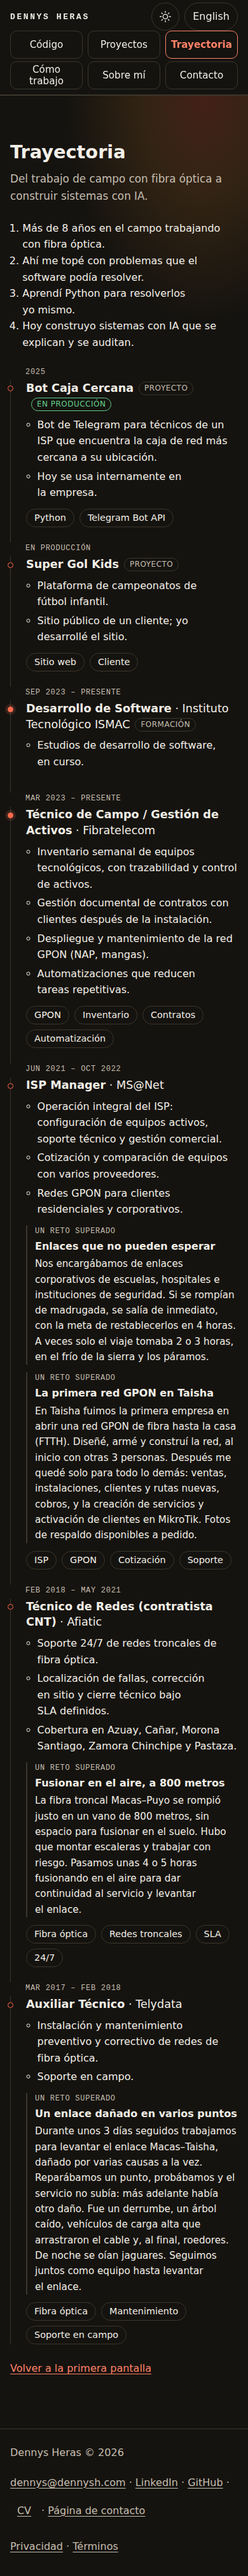
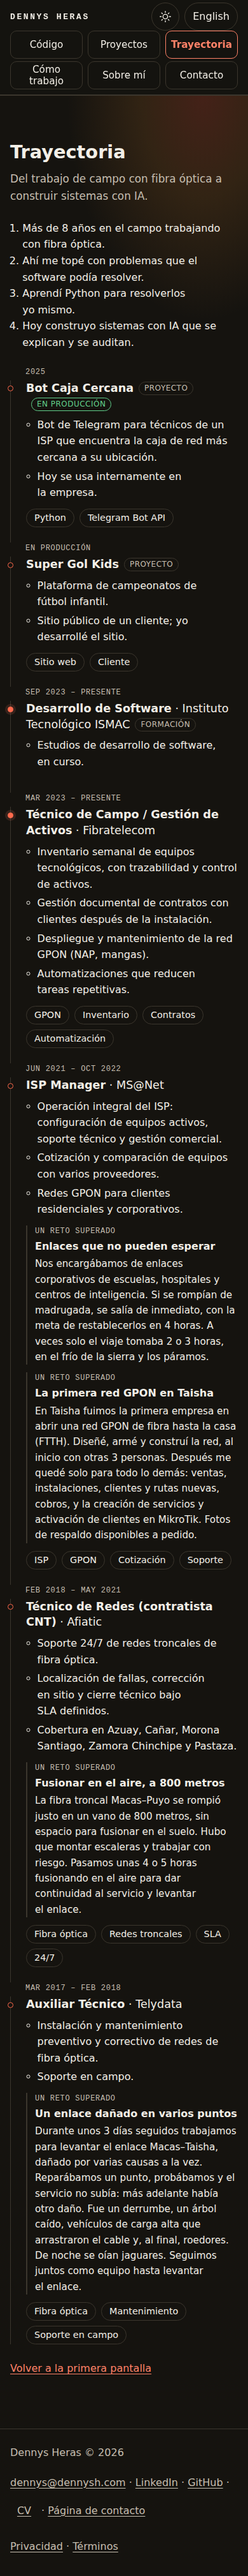
✏ texto: reto 3a de MS@Net con «escuelas, hospitales y centros de inteligencia» (en: «intelligence centers»), sin «policía»; prueba, capturas y resumen

Changed region(s): [[0.1231, 0.4995, 0.9538, 0.5307]]

diff --git a/src/content/site.js b/src/content/site.js
@@ -142,7 +142,7 @@ export const site = {
         { id: 'super-gol-kids', kind: 'project', when: 'In production', title: 'Super Gol Kids', bullets: ['Platform for children\'s football championships.', 'Public website for a client; I developed the site.'], tags: ['Website', 'Client'], photos: photosFor('en', 'super-gol-kids') },
         { id: 'ismac', kind: 'study', when: 'Sep 2023 – Present', from: '2023-09', current: true, title: 'Software Development', org: 'ISMAC Institute of Technology', bullets: ['Software development studies, in progress.'], tags: [], photos: photosFor('en', 'ismac') },
         { id: 'fibratelecom', kind: 'job', when: 'Mar 2023 – Present', from: '2023-03', current: true, title: 'Field Technician / Asset Management', org: 'Fibratelecom', bullets: ['Weekly inventory of technology equipment, with traceability and asset control.', 'Document management of customer contracts after installation.', 'Deployment and maintenance of GPON network (NAP, splice closures).', 'Automations that cut repetitive tasks.'], tags: ['GPON', 'Inventory', 'Contracts', 'Automation'], photos: photosFor('en', 'fibratelecom') },
-        { id: 'msnet', kind: 'job', when: 'Jun 2021 – Oct 2022', from: '2021-06', to: '2022-10', title: 'ISP Manager', org: 'MS@Net', bullets: ['Full ISP operation: active equipment configuration, technical support and commercial management.', 'Quoted and compared equipment from several suppliers.', 'GPON networks for residential and corporate customers.'], tags: ['ISP', 'GPON', 'Quotes', 'Support'], challenges: [{ title: 'Links that cannot wait', text: 'We looked after corporate links for schools, hospitals and security institutions. If one broke in the early hours, we went out at once, aiming to restore it within 4 hours. Sometimes the trip alone took 2 or 3 hours, in the cold of the highlands and the páramos.' }, { title: 'The first GPON network in Taisha', text: 'In Taisha we were the first company to open a GPON fiber-to-the-home (FTTH) network. I designed, assembled and built the network, at first with 3 other people. After that I stayed on alone for everything else: sales, installations, new customers and routes, billing, and creating services and activating customers on MikroTik. Backup photos available on request.' }], photos: photosFor('en', 'msnet') },
+        { id: 'msnet', kind: 'job', when: 'Jun 2021 – Oct 2022', from: '2021-06', to: '2022-10', title: 'ISP Manager', org: 'MS@Net', bullets: ['Full ISP operation: active equipment configuration, technical support and commercial management.', 'Quoted and compared equipment from several suppliers.', 'GPON networks for residential and corporate customers.'], tags: ['ISP', 'GPON', 'Quotes', 'Support'], challenges: [{ title: 'Links that cannot wait', text: 'We looked after corporate links for schools, hospitals and intelligence centers. If one broke in the early hours, we went out at once, aiming to restore it within 4 hours. Sometimes the trip alone took 2 or 3 hours, in the cold of the highlands and the páramos.' }, { title: 'The first GPON network in Taisha', text: 'In Taisha we were the first company to open a GPON fiber-to-the-home (FTTH) network. I designed, assembled and built the network, at first with 3 other people. After that I stayed on alone for everything else: sales, installations, new customers and routes, billing, and creating services and activating customers on MikroTik. Backup photos available on request.' }], photos: photosFor('en', 'msnet') },
         { id: 'afiatic', kind: 'job', when: 'Feb 2018 – May 2021', from: '2018-02', to: '2021-05', title: 'Network Technician (CNT contractor)', org: 'Afiatic', bullets: ['24/7 support for fiber-optic backbone networks.', 'Fault location, on-site repair and technical close-out under defined SLAs.', 'Coverage in Azuay, Cañar, Morona Santiago, Zamora Chinchipe and Pastaza.'], tags: ['Fiber optics', 'Backbone', 'SLA', '24/7'], challenges: [{ title: 'Splicing in the air, at 800 meters', text: 'The Macas–Puyo backbone fiber broke right in an 800-meter span, with no room to splice on the ground. We had to set up ladders and work at risk. We spent about 4 to 5 hours splicing in the air to keep the service running and bring the link back up.' }], photos: photosFor('en', 'afiatic') },
         { id: 'telydata', kind: 'job', when: 'Mar 2017 – Feb 2018', from: '2017-03', to: '2018-02', title: 'Technical Assistant', org: 'Telydata', bullets: ['Installation and preventive and corrective maintenance of fiber-optic networks.', 'Field support.'], tags: ['Fiber optics', 'Maintenance', 'Field support'], challenges: [{ title: 'A link damaged in several places', text: 'For about 3 days in a row we worked to restore the Macas–Taisha link, damaged by several causes at once. We would repair one point, test, and the service still would not come up: there was more damage further along. It was a landslide, a fallen tree, tall-load vehicles that dragged the cable and, finally, rodents. At night we could hear jaguars. We stayed together as a team until the link was back up.' }], photos: photosFor('en', 'telydata') },
       ],
@@ -445,7 +445,7 @@ export const site = {
         { id: 'super-gol-kids', kind: 'project', when: 'En producción', title: 'Super Gol Kids', bullets: ['Plataforma de campeonatos de fútbol infantil.', 'Sitio público de un cliente; yo desarrollé el sitio.'], tags: ['Sitio web', 'Cliente'], photos: photosFor('es', 'super-gol-kids') },
         { id: 'ismac', kind: 'study', when: 'Sep 2023 – Presente', from: '2023-09', current: true, title: 'Desarrollo de Software', org: 'Instituto Tecnológico ISMAC', bullets: ['Estudios de desarrollo de software, en curso.'], tags: [], photos: photosFor('es', 'ismac') },
         { id: 'fibratelecom', kind: 'job', when: 'Mar 2023 – Presente', from: '2023-03', current: true, title: 'Técnico de Campo / Gestión de Activos', org: 'Fibratelecom', bullets: ['Inventario semanal de equipos tecnológicos, con trazabilidad y control de activos.', 'Gestión documental de contratos con clientes después de la instalación.', 'Despliegue y mantenimiento de la red GPON (NAP, mangas).', 'Automatizaciones que reducen tareas repetitivas.'], tags: ['GPON', 'Inventario', 'Contratos', 'Automatización'], photos: photosFor('es', 'fibratelecom') },
-        { id: 'msnet', kind: 'job', when: 'Jun 2021 – Oct 2022', from: '2021-06', to: '2022-10', title: 'ISP Manager', org: 'MS@Net', bullets: ['Operación integral del ISP: configuración de equipos activos, soporte técnico y gestión comercial.', 'Cotización y comparación de equipos con varios proveedores.', 'Redes GPON para clientes residenciales y corporativos.'], tags: ['ISP', 'GPON', 'Cotización', 'Soporte'], challenges: [{ title: 'Enlaces que no pueden esperar', text: 'Nos encargábamos de enlaces corporativos de escuelas, hospitales e instituciones de seguridad. Si se rompían de madrugada, se salía de inmediato, con la meta de restablecerlos en 4 horas. A veces solo el viaje tomaba 2 o 3 horas, en el frío de la sierra y los páramos.' }, { title: 'La primera red GPON en Taisha', text: 'En Taisha fuimos la primera empresa en abrir una red GPON de fibra hasta la casa (FTTH). Diseñé, armé y construí la red, al inicio con otras 3 personas. Después me quedé solo para todo lo demás: ventas, instalaciones, clientes y rutas nuevas, cobros, y la creación de servicios y activación de clientes en MikroTik. Fotos de respaldo disponibles a pedido.' }], photos: photosFor('es', 'msnet') },
+        { id: 'msnet', kind: 'job', when: 'Jun 2021 – Oct 2022', from: '2021-06', to: '2022-10', title: 'ISP Manager', org: 'MS@Net', bullets: ['Operación integral del ISP: configuración de equipos activos, soporte técnico y gestión comercial.', 'Cotización y comparación de equipos con varios proveedores.', 'Redes GPON para clientes residenciales y corporativos.'], tags: ['ISP', 'GPON', 'Cotización', 'Soporte'], challenges: [{ title: 'Enlaces que no pueden esperar', text: 'Nos encargábamos de enlaces corporativos de escuelas, hospitales y centros de inteligencia. Si se rompían de madrugada, se salía de inmediato, con la meta de restablecerlos en 4 horas. A veces solo el viaje tomaba 2 o 3 horas, en el frío de la sierra y los páramos.' }, { title: 'La primera red GPON en Taisha', text: 'En Taisha fuimos la primera empresa en abrir una red GPON de fibra hasta la casa (FTTH). Diseñé, armé y construí la red, al inicio con otras 3 personas. Después me quedé solo para todo lo demás: ventas, instalaciones, clientes y rutas nuevas, cobros, y la creación de servicios y activación de clientes en MikroTik. Fotos de respaldo disponibles a pedido.' }], photos: photosFor('es', 'msnet') },
         { id: 'afiatic', kind: 'job', when: 'Feb 2018 – May 2021', from: '2018-02', to: '2021-05', title: 'Técnico de Redes (contratista CNT)', org: 'Afiatic', bullets: ['Soporte 24/7 de redes troncales de fibra óptica.', 'Localización de fallas, corrección en sitio y cierre técnico bajo SLA definidos.', 'Cobertura en Azuay, Cañar, Morona Santiago, Zamora Chinchipe y Pastaza.'], tags: ['Fibra óptica', 'Redes troncales', 'SLA', '24/7'], challenges: [{ title: 'Fusionar en el aire, a 800 metros', text: 'La fibra troncal Macas–Puyo se rompió justo en un vano de 800 metros, sin espacio para fusionar en el suelo. Hubo que montar escaleras y trabajar con riesgo. Pasamos unas 4 o 5 horas fusionando en el aire para dar continuidad al servicio y levantar el enlace.' }], photos: photosFor('es', 'afiatic') },
         { id: 'telydata', kind: 'job', when: 'Mar 2017 – Feb 2018', from: '2017-03', to: '2018-02', title: 'Auxiliar Técnico', org: 'Telydata', bullets: ['Instalación y mantenimiento preventivo y correctivo de redes de fibra óptica.', 'Soporte en campo.'], tags: ['Fibra óptica', 'Mantenimiento', 'Soporte en campo'], challenges: [{ title: 'Un enlace dañado en varios puntos', text: 'Durante unos 3 días seguidos trabajamos para levantar el enlace Macas–Taisha, dañado por varias causas a la vez. Reparábamos un punto, probábamos y el servicio no subía: más adelante había otro daño. Fue un derrumbe, un árbol caído, vehículos de carga alta que arrastraron el cable y, al final, roedores. De noche se oían jaguares. Seguimos juntos como equipo hasta levantar el enlace.' }], photos: photosFor('es', 'telydata') },
       ],

diff --git a/tests/unit/content.test.js b/tests/unit/content.test.js
@@ -383,7 +383,7 @@ describe('línea de tiempo de Trayectoria (trabajo B; contenido solo del CV púb
   })
 })
 
-describe('retos superados de Trayectoria (declarados por Dennys; sin fechas, sin clientes, sin cargos nuevos)', () => {
+describe('retos superados de Trayectoria (declarados por Dennys; sin fechas, sin policía, sin clientes, sin cargos nuevos)', () => {
   const IDS = { telydata: 1, afiatic: 1, msnet: 2 }
   const byId = (lang, id) => site[lang].journeyPage.timeline.find((e) => e.id === id)
   const NUMS = { es: { telydata: ['3'], afiatic: ['800', '4', '5'], msnet: ['4', '2', '3', '3'] }, en: { telydata: ['3'], afiatic: ['800', '4', '5'], msnet: ['4', '2', '3', '3'] } }
@@ -419,10 +419,18 @@ describe('retos superados de Trayectoria (declarados por Dennys; sin fechas, sin
       const cs = byId(lang, id).challenges
       const all = JSON.stringify(cs)
       expect(all).not.toMatch(/\b(19|20)\d{2}\b|\b(enero|febrero|marzo|abril|mayo|junio|julio|agosto|septiembre|setiembre|octubre|noviembre|diciembre|january|february|march|april|june|july|august|september|october|november|december)\b/i)
-      expect(all).not.toMatch(/inteligencia|polic[ií]a|intelligence|police/i)
+      expect(all).not.toMatch(/polic[ií]a|police|instituciones de seguridad|security institutions/i)
       expect(all).not.toMatch(/[\w.-]+@[\w.-]+\.\w+|https?:|www\./i)
       expect(cs.flatMap((c) => c.text.match(/\b\d+\b/g) ?? []).sort()).toEqual([...NUMS[lang][id]].sort())
     }
+  })
+  it('el reto «Enlaces que no pueden esperar» nombra «escuelas, hospitales y centros de inteligencia» (Dennys, 2026-11-15) y «inteligencia» no aparece en ningún otro reto', () => {
+    expect(byId('es', 'msnet').challenges[0].text).toContain('de escuelas, hospitales y centros de inteligencia.')
+    expect(byId('en', 'msnet').challenges[0].text).toContain('for schools, hospitals and intelligence centers.')
+    for (const lang of ['es', 'en']) for (const id of Object.keys(IDS)) byId(lang, id).challenges.forEach((c, i) => {
+      if (id === 'msnet' && i === 0) return
+      expect(JSON.stringify(c), `${lang} ${id} ${i}`).not.toMatch(/inteligencia|intelligence/i)
+    })
   })
   it('las fechas y los cargos de MS@Net, Afiatic y Telydata no cambian', () => {
     for (const lang of ['es', 'en']) {

diff --git a/02-DOCS/resumen-retos-trayectoria-2026-11-15.md b/02-DOCS/resumen-retos-trayectoria-2026-11-15.md
@@ -5,7 +5,7 @@
 - `src/components/Timeline.jsx` pinta el bloque dentro de la entrada, **después de las viñetas y antes de las etiquetas**: rótulo (texto real), título (`h3`) y texto. Las entradas sin retos salen igual que antes.
 - Estilo en `src/styles/home.css`: filete a la izquierda, rótulo pequeño en mayúsculas, texto de .95rem. Solo tokens existentes (`--line`, `--muted`, `--text`); sin colores nuevos ni iconos.
 - Retos cargados (texto exacto del encargo, es y en): Telydata (1), Afiatic (1), MS@Net (2). Fibratelecom, ISMAC y los proyectos no llevan.
-- Fechas y cargos sin tocar. Sin fechas, «centros de inteligencia», «policía», clientes ni personas en los retos.
+- Fechas y cargos sin tocar. Sin fechas, «policía», clientes ni personas en los retos. (Corrección de Dennys, ver abajo: el reto 3a nombra «centros de inteligencia».)
 
 ## Pruebas
 - `npm run build` en verde; `vitest`: 61 archivos, 1081 pruebas en verde.
@@ -17,6 +17,12 @@
 
 ## Capturas (`02-DOCS/capturas-retos-trayectoria-2026-11-15/`)
 `trayectoria-{es,en}-{movil,escritorio}-{oscuro,claro}.png` (móvil 390×844, escritorio 1440×900; página completa; compilación normal, sin fotos de relleno). Revisadas: móvil oscuro (es) y escritorio claro (en).
+
+## Corrección de Dennys (2026-11-15, commit aparte)
+- Reto 3a de MS@Net: ahora dice «escuelas, hospitales y centros de inteligencia» (en: «schools, hospitals and intelligence centers»). Sin «policía» ni nombres de entidades. Sustituye a «instituciones de seguridad».
+- Prueba: ya no prohíbe «inteligencia»; exige esta redacción en el reto 3a, prohíbe «policía», «police» y las frases anteriores «instituciones de seguridad» / «security institutions», y comprueba que «inteligencia» no aparece en ningún otro reto.
+- build y vitest en verde (1082 pruebas); e2e de Trayectoria en verde (22). Las 8 capturas se regeneraron porque todas son de página completa y contienen la entrada de MS@Net; servidores cerrados.
+- **Duda resuelta:** la redacción «instituciones de seguridad» ya no se usa; la decisión final es la de Dennys.
 
 ## Dudas y notas de contenido
 - «La primera empresa» (MS@Net, Taisha) queda tal cual, con «Fotos de respaldo disponibles a pedido». Es una afirmación declarada por Dennys, respaldada por fotos a pedido; **no demostrada en la página**. No encontré en el repositorio una lista de afirmaciones verificables de la Factory donde registrarla.
